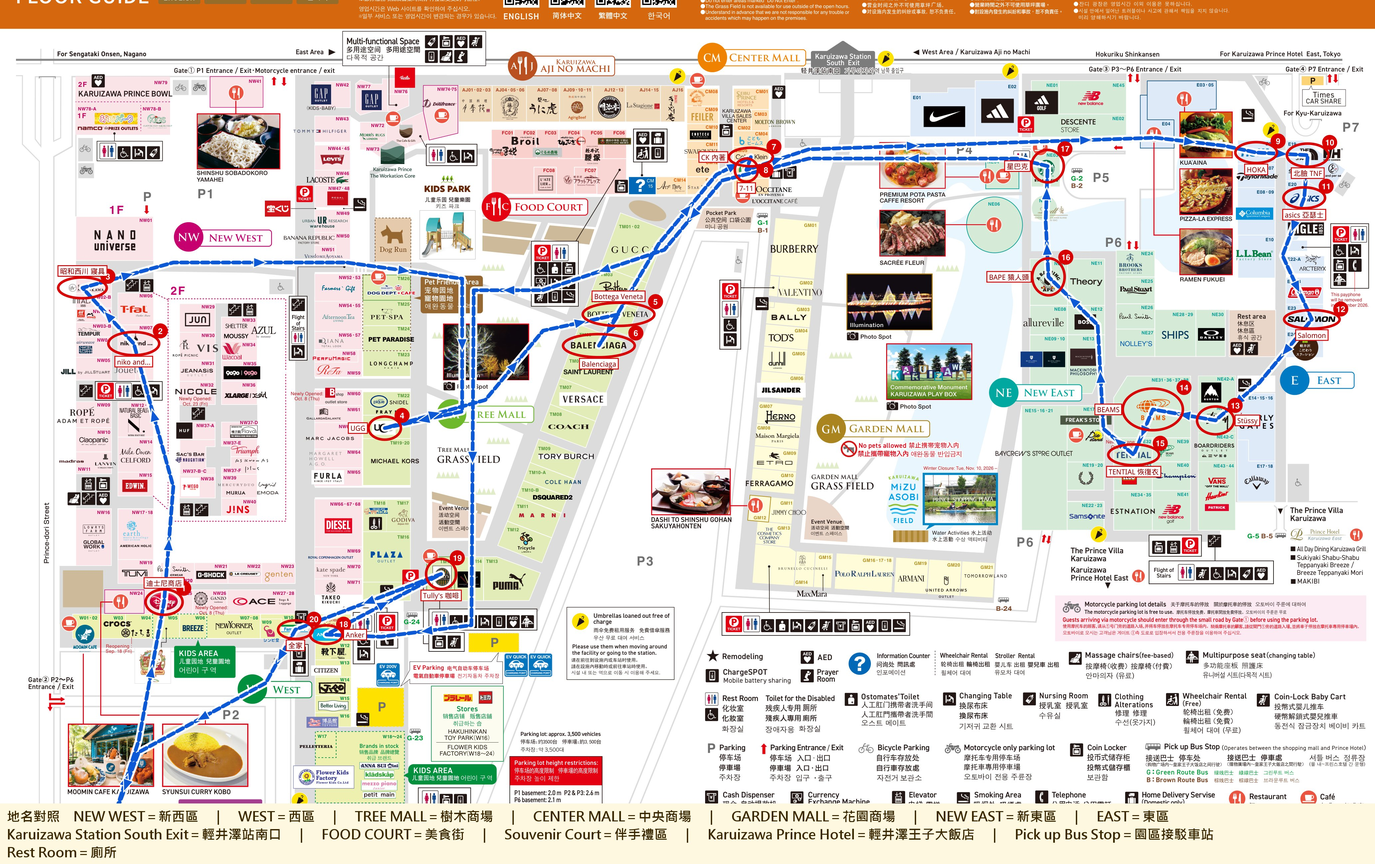
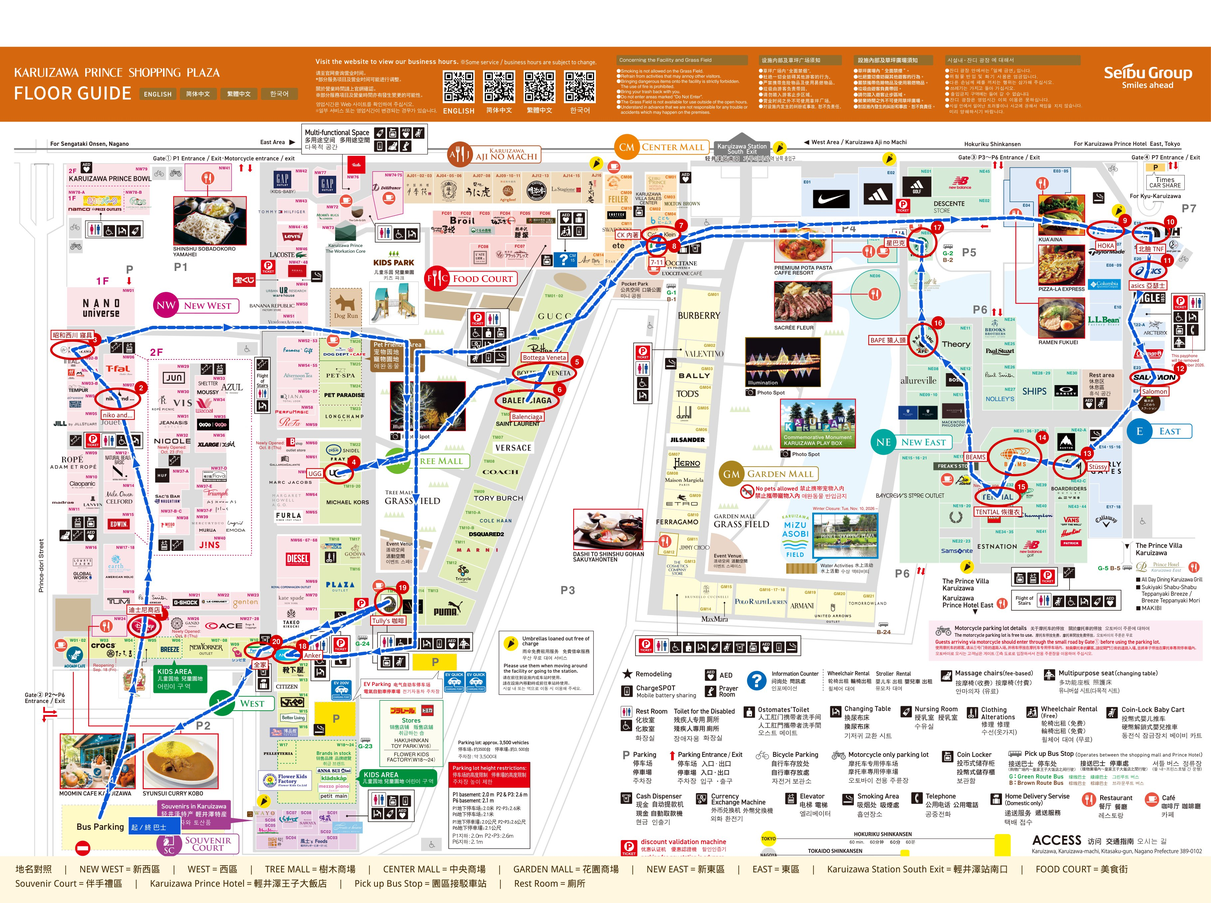
輕井澤縮圖改成和 PDF 同一張＋圖片版本號；D8 地圖標 Chiikawa／Pokémon，順路店加距離與步行時間

diff --git a/index.html b/index.html
@@ -559,6 +559,12 @@ footer{color:var(--muted);font-size:11px;padding:20px 0 10px;line-height:1.6}
 .near em.ap{background:#eef1f5;color:#667}
 
 .kzm .route{font-size:11.5px;line-height:1.5;background:#e9f1ff;border-radius:8px;padding:5px 8px;margin:6px 0 2px;color:#123}
+.chdot{width:26px;height:26px;border-radius:50%;display:flex;align-items:center;justify-content:center;font-size:14px;background:#fff;border:2.5px solid #e46a8f;box-shadow:0 1px 4px rgba(0,0,0,.35)}
+.chdot.pk{border-color:#d33}
+.chl{font-size:11.5px;margin-top:5px;padding:4px 8px;border-radius:8px;background:#fdeef3;color:#7a2141}
+.chl.pk{background:#fdeaea;color:#8a1c1c}
+.near small.wk{color:#1d4f91;font-weight:700}
+
 </style>
 </head>
 <body>
@@ -917,9 +923,9 @@ const DCMORE=[["鋼彈基地 THE GUNDAM BASE", "7F", "", "https://mitsui-shoppin
 const AQMINE=[[1, "Yogibo 懶骨頭", "3F", "", "https://www.aquacity.jp/floorguide/floor.php?floor=3F", "", "懶骨頭太大不好帶，可看小抱枕、Yogibo Mate 玩偶"], [2, "鬼塚虎 Onitsuka Tiger", "3F", "", "https://www.aquacity.jp/floorguide/floor.php?floor=3F", "jp", "日本售價明顯比台灣低，再加免稅；熱門款常缺尺寸，先試穿"], [3, "asics", "3F", "", "https://www.aquacity.jp/floorguide/floor.php?floor=3F", "jp", "日本本國品牌，價格比台灣低"], [4, "Disney Store", "3F", "", "https://www.aquacity.jp/floorguide/floor.php?floor=3F", "jp", "日本 Disney Store 限定商品、聖誕季商品"], [5, "Bic Camera 電器（Air BIC）", "3F", "", "https://www.aquacity.jp/floorguide/floor.php?floor=3F", "jp", "可免稅；DiverCity 2F 也有一家，擇一逛"], [6, "LAWSON 便利商店", "1F", "", "https://www.aquacity.jp/floorguide/floor.php?floor=1F", "", "補給點；Uchi Café 甜點是 Lawson 限定"], [7, "Wendy's・First Kitchen（美食街內）", "1F", "", "https://www.aquacity.jp/floorguide/floor.php?floor=1F", "jp", "日本限定的漢堡＋義大利麵套餐，美食街裡面"]];
 const AQMORE=[["Zoff", "3F", "", "https://www.aquacity.jp/floorguide/floor.php?floor=3F", "📍在 ④ 迪士尼和 ⑤ Bic Camera 之間｜日本眼鏡連鎖，配一副約 30–60 分鐘可取，比台灣便宜"]];
 const ROUTE={"kz": "巴士停車場 → 新西區 ①②③ → 樹木商場 ④⑤⑥ → 中央商場 ⑦⑧ → 沿上方大路直接到東區 ⑨⑩⑪⑫ → 新東區 ⑬⑭⑮⑯⑰ → 沿上方大路回西區 ⑱ Anker → ⑲ Tully's 休息 → ⑳ 全家買今晚零食 → 回巴士", "dc": "1F 東京電訊港站進 ① → 2F ②③④⑤ → 西中庭上 3F ⑥⑦ → 東中庭上 4F ⑧⑨⑩ → 西中庭上 5F ⑪⑫ → 東中庭上 6F ⑬ → 下 2F 西側出口，走往台場站方向 → Aqua City", "aq": "從台場站進 3F ①②③④⑤ → 中央電扶梯下 1F ⑥ → ⑦ 美食街 Wendy's 收尾"};
-const MINE={kz:{name:'',img:'img/kz_map.jpg',pdf:'img/kz_map.pdf',cap:'藍線＝順路路線',base:'https://www.karuizawa-psp.jp',mine:KZMINE,more:KZMORE},
-  dc:{name:'DiverCity Tokyo Plaza',img:'img/dc_map.jpg',cap:'1F–6F 依樓層排',base:'',mine:DCMINE,more:DCMORE},
-  aq:{name:'Aqua City 台場',img:'img/aq_map.jpg',cap:'1F・3F',base:'',mine:AQMINE,more:AQMORE}};
+const MINE={kz:{name:'',img:'img/kz_map.jpg?v=11271614',pdf:'img/kz_map.pdf?v=11271614',cap:'藍線＝順路路線',base:'https://www.karuizawa-psp.jp',mine:KZMINE,more:KZMORE},
+  dc:{name:'DiverCity Tokyo Plaza',img:'img/dc_map.jpg?v=11271614',cap:'1F–6F 依樓層排',base:'',mine:DCMINE,more:DCMORE},
+  aq:{name:'Aqua City 台場',img:'img/aq_map.jpg?v=11271614',cap:'1F・3F',base:'',mine:AQMINE,more:AQMORE}};
 const mineHTML=k=>{const M=MINE[k];if(!M)return '';
   const li=([n,nm,ar,c,u,t,no],more)=>`<li><a class="${more?'more':''}" href="${M.base+u}" target="_blank" rel="noopener"><span class="n">${more?'+':n}</span><span><b>${nm}</b><em>${ar}${c?' '+c:''}</em>${t==='jp'?'<i>日本限定／價差</i>':''}<small>${no}</small></span></a></li>`;
   return `<div class="kzm"><h4>⭐ ${M.name?M.name+' ':''}我的必逛（樓層圖已圈好）</h4>
@@ -934,9 +940,11 @@ const mineHTML=k=>{const M=MINE[k];if(!M)return '';
 
 /* ============ D8 順路加逛 ============ */
 const D8NEAR={"2": [["Blue Bottle 原宿カフェ", "2026/3 新開，神宮前 6-15-17，8:00–20:00，早到可先買咖啡", "ブルーボトルコーヒー 原宿カフェ", "ok", 35.6668, 139.7035, 1], ["THE NORTH FACE Mountain", "明治通り旗艦店（神宮前 6），原宿一帶有好幾間 TNF 旗艦", "THE NORTH FACE MOUNTAIN 原宿", "ok", 35.66747, 139.70492, 0], ["niko and... TOKYO", "明治通り上的旗艦店", "niko and... TOKYO", "chk", 35.66664, 139.70434, 0], ["asics Store 原宿", "明治通り×竹下通り路口", "アシックスストア 原宿", "chk", 35.67041, 139.70652, 0]], "3": [["HOKA 原宿", "國內最大直營店，神宮前交差點附近，11:00–20:00", "HOKA 原宿", "ok", 35.6693, 139.7061, 1], ["Salomon Store 東京 渋谷", "明治通り上，2024/11 移轉擴大、2 層樓；離明治神宮前站近", "サロモンストア 東京 渋谷", "ok", 35.6672, 139.7047, 1], ["A.P.C. 原宿", "明治神宮前站步行約 3 分", "A.P.C. 原宿", "ok", 35.669, 139.7072, 1], ["BEAMS 原宿", "原宿有好幾間 BEAMS（本店、PLUS、ANNEX）", "BEAMS 原宿", "chk", 35.67169, 139.70811, 0]], "4": [["Onitsuka Tiger 表參道", "2025/4 開幕的 4 層樓 Yellow Concept Store，就在表參道上", "オニツカタイガー 表参道", "ok", 35.668, 139.7062, 1]], "5": [["Maison Kitsuné 青山", "南青山 3-15-13，表參道站步行約 3 分", "Maison Kitsune Aoyama", "ok", 35.6661, 139.7141, 1], ["Café Kitsuné 青山", "南青山 3-15-9，就在 Maison Kitsuné 旁；有青山限定甜點", "Cafe Kitsune Aoyama", "ok", 35.6659, 139.7144, 1], ["Blue Bottle 青山カフェ", "南青山 3-13-14，和 Kitsuné 同一區，8:00–19:00", "ブルーボトルコーヒー 青山カフェ", "ok", 35.6664, 139.7136, 1]], "6": [["Café Kitsuné 渋谷", "MIYASHITA PARK North 2F，往澀谷途中順路，11:00–21:00", "Cafe Kitsune MIYASHITA PARK", "ok", 35.6638, 139.7024, 1]], "7": [["A.P.C. 渋谷 PARCO", "就在 PARCO 3F，跟 HUMAN MADE 同一棟", "A.P.C. 渋谷PARCO", "ok", 35.662, 139.6986, 0], ["Disney Store 渋谷公園通り", "宇田川町 20-15，PARCO 附近，日本限定商品", "ディズニーストア 渋谷公園通り店", "ok", 35.66119, 139.70021, 0], ["HOKA 渋谷", "公園通り上，2025/12 開幕、國內第一間 3 層樓直營店", "HOKA 渋谷", "ok", 35.6626, 139.6995, 1]], "9": [["Blue Bottle 渋谷カフェ", "澀谷的 Blue Bottle", "ブルーボトルコーヒー 渋谷カフェ", "chk", 35.6645, 139.6995, 1]], "10": [["Bic Camera 有樂町", "有樂町站旁，Anker、電器、藥妝都有，可免稅", "ビックカメラ 有楽町", "ok", 35.6755, 139.76301, 0], ["UNIQLO 銀座", "銀座旗艦店，日本價比台灣低", "ユニクロ 銀座店", "ok", 35.67045, 139.76365, 1], ["Onitsuka Tiger 銀座", "品牌第一間 Yellow Concept Store（2023/8）", "オニツカタイガー 銀座 イエローコンセプトストア", "ok", 35.6717, 139.765, 1]]};
+const D8CHLL={"4": [["ちいかわらんど 原宿店", "Kiddy Land 原宿 1F", 35.66772, 139.70654, "ck"]], "7": [["ポケモンセンターシブヤ", "渋谷 PARCO 6F", 35.66193, 139.69875, "pk"]]};
+const walkTxt=(a,b)=>{const m=distKm(a,b)*1000,w=Math.max(1,Math.round(m*1.3/80));return `距本站約 ${m<1000?Math.round(m/10)*10+"m":(m/1000).toFixed(1)+"km"}・步行約 ${w} 分`};
 const ABC='ABCDEFGH';
 const nearHTML=i=>{const L=D8NEAR[i];if(!L)return '';
-  return `<div class="near"><div class="h">🧭 順路可加（你有興趣的店）</div>${L.map(([n,p,q,st,la,lo,ap],j)=>`<a href="${G(q)}" target="_blank" rel="noopener"><span class="ndot">${ABC[j]}</span><b>${n}</b><em class="${st}">${st==='ok'?'已查證':'出發前確認'}</em>${ap?'<em class="ap">位置約略</em>':''}<small>${p}</small></a>`).join('')}</div>`};
+  return `<div class="near"><div class="h">🧭 順路可加（你有興趣的店）</div>${L.map(([n,p,q,st,la,lo,ap],j)=>`<a href="${G(q)}" target="_blank" rel="noopener"><span class="ndot">${ABC[j]}</span><b>${n}</b><em class="${st}">${st==='ok'?'已查證':'出發前確認'}</em>${ap?'<em class="ap">位置約略</em>':''}<small class="wk">🚶 ${walkTxt(D8.stops[i].ll,[la,lo])}</small><small>${p}</small></a>`).join('')}</div>`};
 /* 每站小地圖：這站 → 下一站＋順路店 */
 function stopMap(el,i){
   const S=D8.stops,a=S[i],b=S[i+1],m=L.map(el,Object.assign({},mapOpts,{zoomControl:false}));tiles().addTo(m);
@@ -946,6 +954,9 @@ function stopMap(el,i){
   (D8NEAR[i]||[]).forEach(([n,p,q,st,la,lo,ap],j)=>{pts.push([la,lo]);
     L.marker([la,lo],{icon:L.divIcon({className:'',html:`<div class="ndot big">${ABC[j]}</div>`,iconSize:[22,22],iconAnchor:[11,11]})}).addTo(m)
      .bindPopup(`<b>${n}</b>${ap?'（位置約略）':''}<br>${p}<br><a target="_blank" rel="noopener" href="${G(q)}">Google 地圖 ↗</a>`);});
+  (D8CHLL[i]||[]).forEach(([n,f,la,lo,t])=>{pts.push([la,lo]);
+    L.marker([la,lo],{icon:L.divIcon({className:'',html:`<div class="chdot ${t}">${t==='ck'?'🐹':'🔴'}</div>`,iconSize:[26,26],iconAnchor:[13,13]}),zIndexOffset:800}).addTo(m)
+     .bindPopup(`<b>${n}</b><br>${f}<br>${walkTxt(a.ll,[la,lo])}`);});
   if(a.end&&!b){m.setView(a.ll,14)}else m.fitBounds(L.latLngBounds(pts),{padding:[22,22],maxZoom:16});
   return m;
 }
@@ -1085,7 +1096,7 @@ DAYS.forEach(day=>{
      <div class="t"><span class="num ${s.start||s.end?'r':''}">${s.k}</span>${s.t}${s.stay?`<span class="stay">${s.stay}</span>`:''}</div>
      <h4>${s.name}</h4><p>${s.p}</p>
      <div class="more"><a href="${G(s.q)}" target="_blank" rel="noopener">Google 地圖 ↗</a>${d.stops[i+1]?`<a href="https://www.google.com/maps/dir/?api=1&origin=${encodeURIComponent(s.q)}&destination=${encodeURIComponent(d.stops[i+1].q)}&travelmode=transit" target="_blank" rel="noopener">到下一站怎麼走 ↗</a>`:''}</div>
-     <div class="smap" data-i="${i}"></div>${nearHTML(i)}<div class="finds" data-k="d8s${i}"></div>${chHTML(D8CH[i])}${s.nx?`<div class="nx">下一站 ↓ ${s.nx}</div>`:''}</div></li>`).join('')}</ol>
+     <div class="smap" data-i="${i}"></div>${(D8CHLL[i]||[]).map(([n,f,la,lo,t])=>`<div class="chl ${t}">${t==='ck'?'🐹 Chiikawa':'🔴 Pokémon'}：<b>${n}</b>（${f}）・${walkTxt(s.ll,[la,lo])}</div>`).join('')}${nearHTML(i)}<div class="finds" data-k="d8s${i}"></div>${chHTML(D8CH[i])}${s.nx?`<div class="nx">下一站 ↓ ${s.nx}</div>`:''}</div></li>`).join('')}</ol>
    
    ${pager(pv,nx)}</div>`;
   daysEl.appendChild(el);
